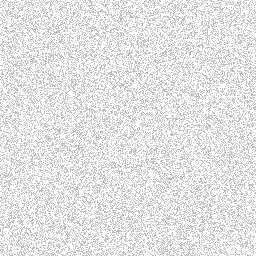
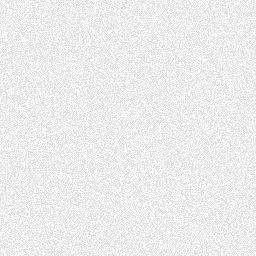
style(cards): refine texture to premium smooth grain

diff --git a/frontend/src/components/dashboard/NodeDashboard.vue b/frontend/src/components/dashboard/NodeDashboard.vue
@@ -1197,7 +1197,7 @@ onUnmounted(() => {
                 ></div>
 
                 <!-- Tactile Analog Grain / Noise Texture Overlay -->
-                <div class="absolute inset-0 pointer-events-none opacity-50 mix-blend-overlay bg-grain-texture"></div>
+                <div class="absolute inset-0 pointer-events-none opacity-[0.85] bg-grain-texture"></div>
 
                 <!-- Top: Thermometer Icon, Label, Main Value, and Min/Max Stats -->
                 <div class="flex items-center justify-between gap-2.5 relative z-10 my-auto">

diff --git a/frontend/src/components/dashboard/SensorCard.vue b/frontend/src/components/dashboard/SensorCard.vue
@@ -109,7 +109,7 @@ const thresholdStatus = computed(() => {
     ></div>
 
     <!-- Tactile Analog Grain / Noise Texture Overlay -->
-    <div class="absolute inset-0 pointer-events-none opacity-50 mix-blend-overlay bg-grain-texture"></div>
+    <div class="absolute inset-0 pointer-events-none opacity-[0.85] bg-grain-texture"></div>
     
     <div class="flex items-center justify-between relative z-10">
       <div>
